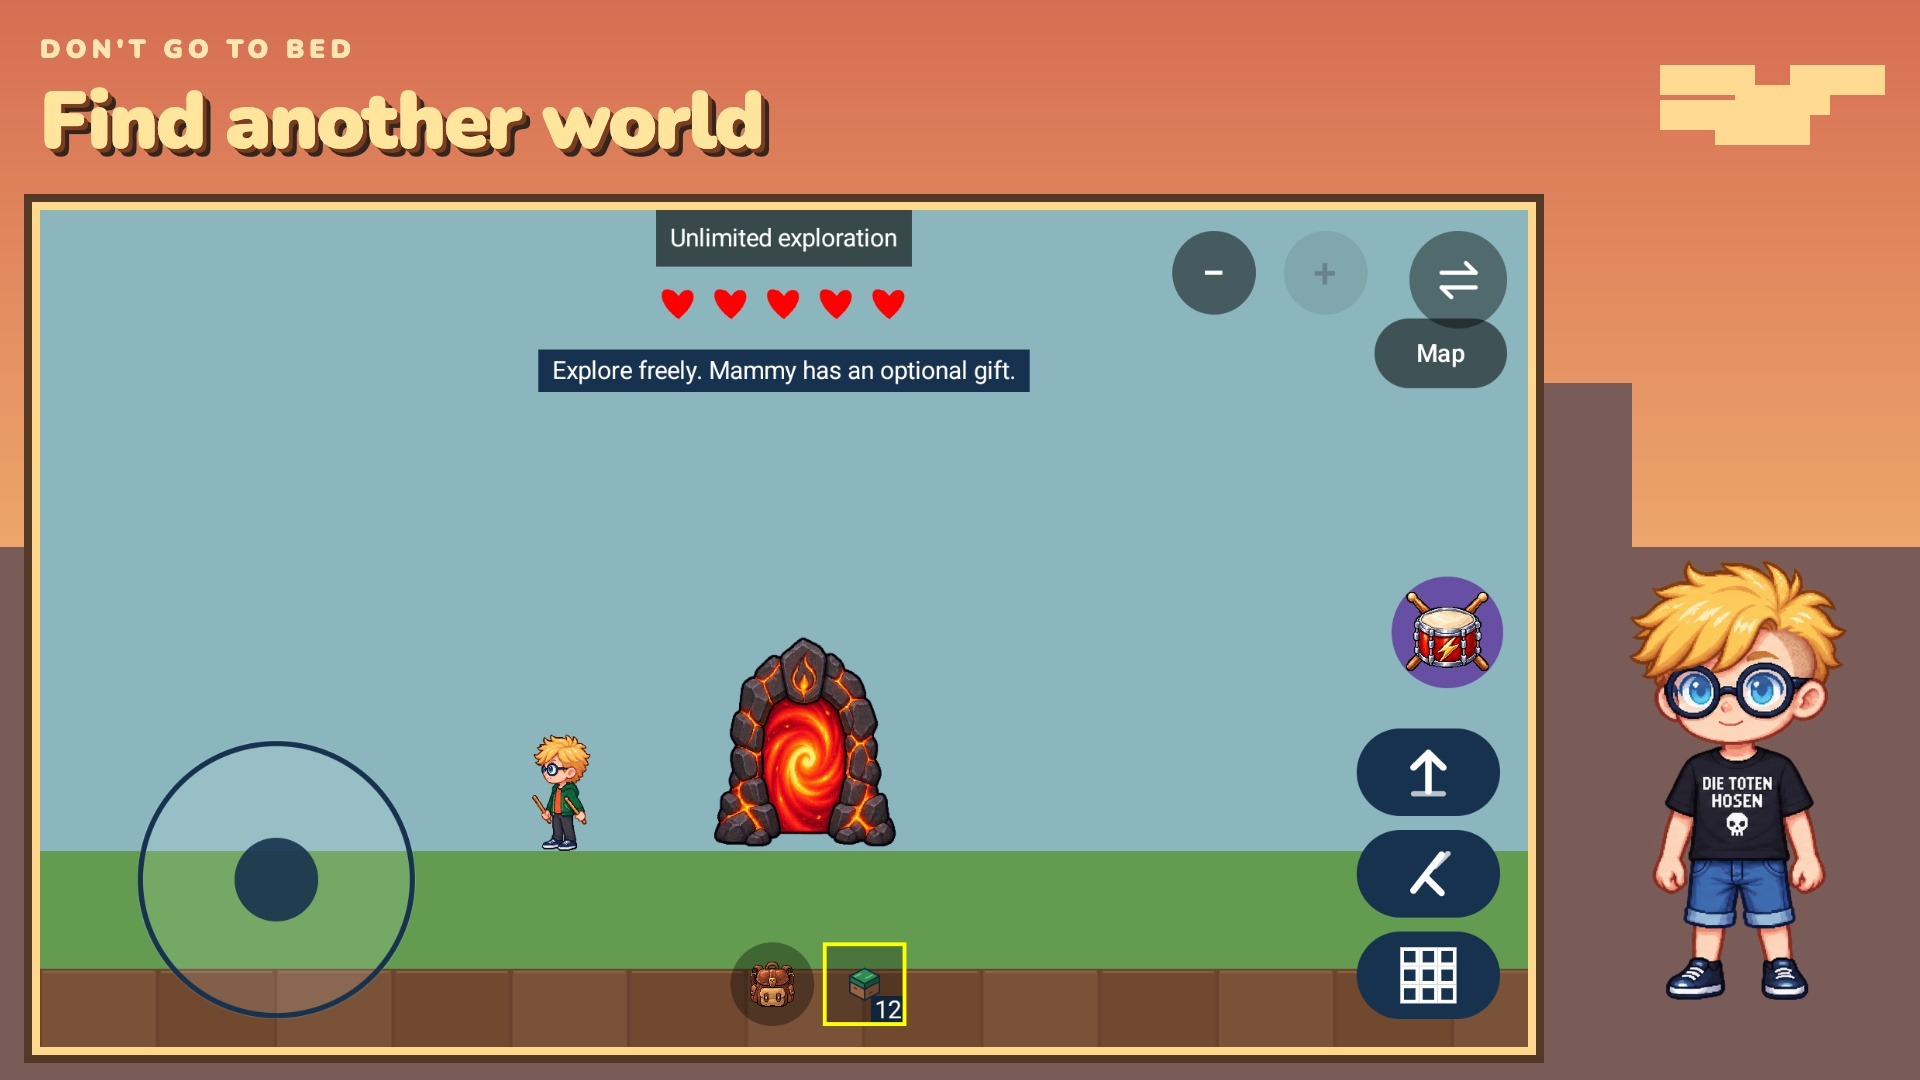
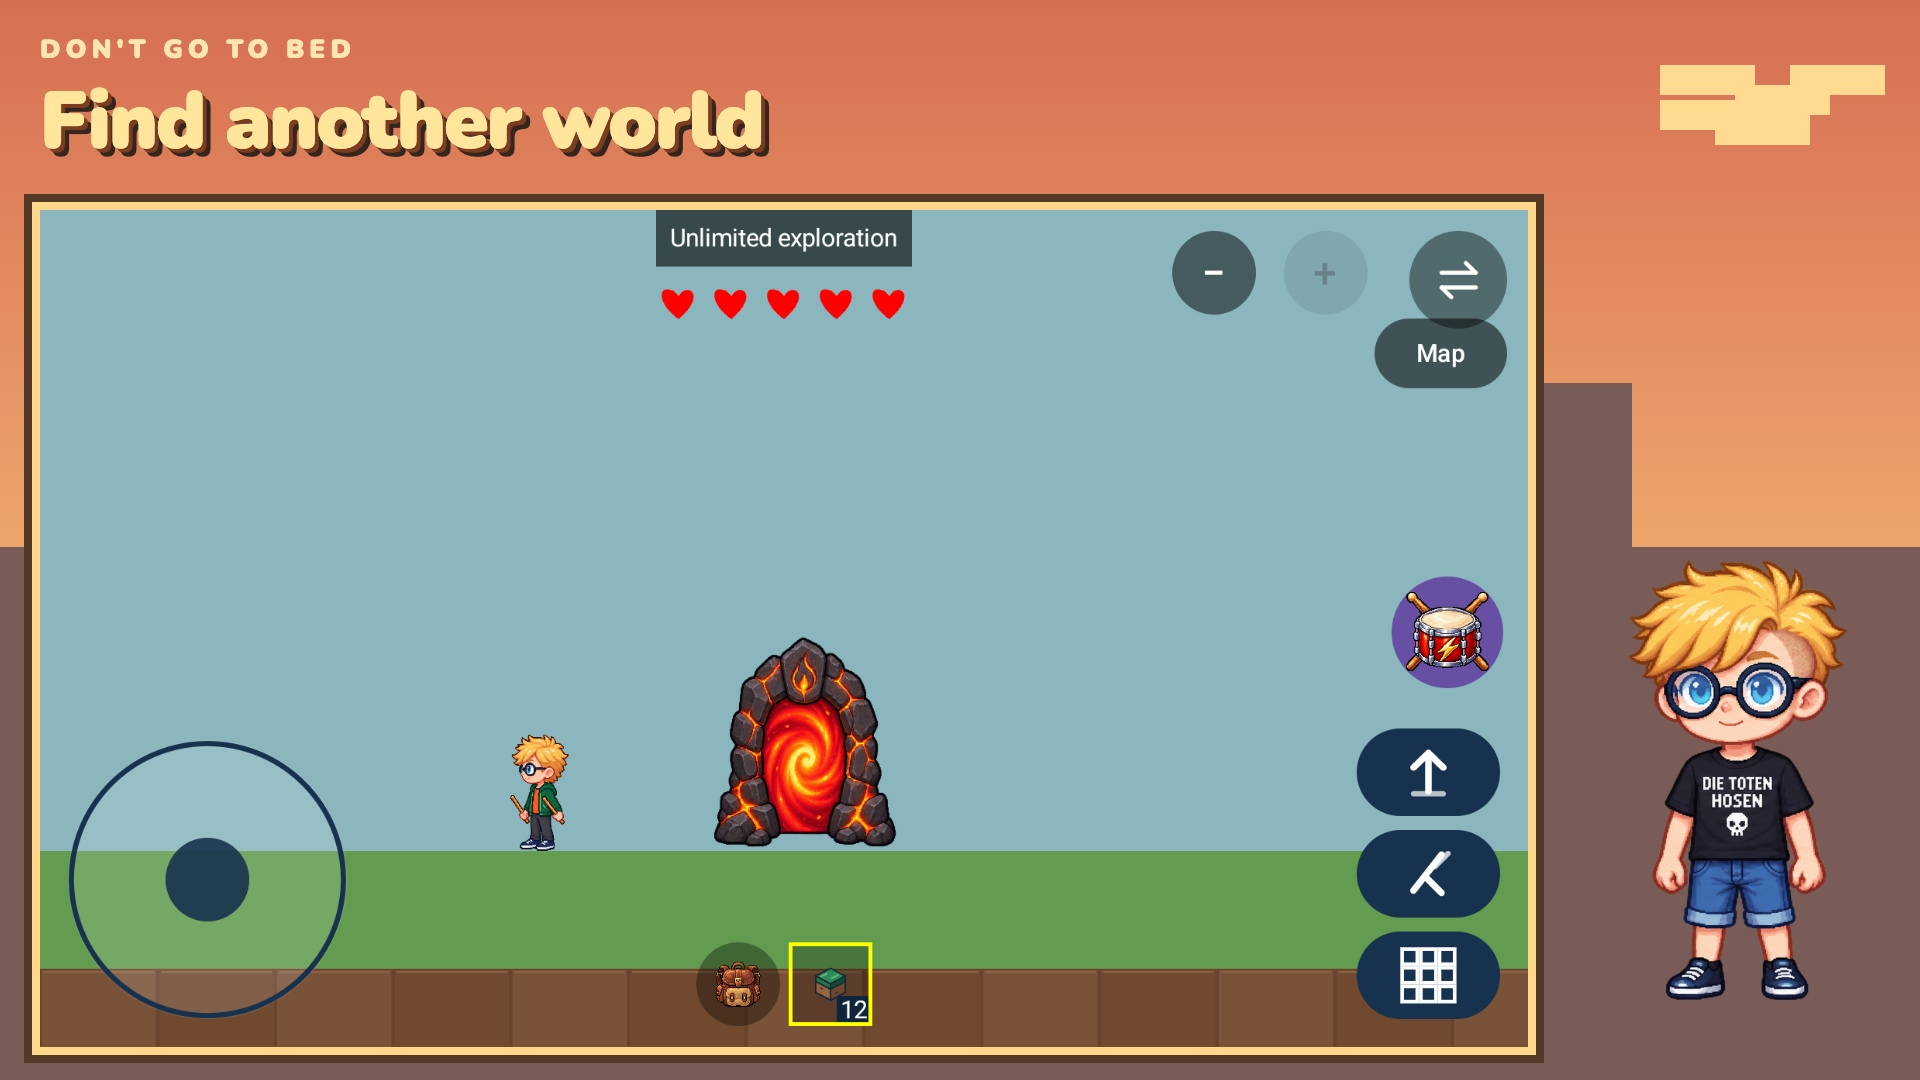
Refresh gameplay gallery with approved bow-pose screenshots

diff --git a/README.md b/README.md
@@ -39,9 +39,9 @@ The original Android project grew into this multiplatform version. The original 
 
 ## Gameplay gallery
 
-Actual Android gameplay from the latest development build (32, `1.2-ui-review`),
-framed with illustrated character artwork. These images show the upcoming UI and
-features; they do not establish that this build has shipped.
+Actual Android gameplay, framed with illustrated character artwork. Screenshots
+were refreshed on 29 October 2026, including the new bow-draw pose. They show
+features prepared for version 1.2; they do not establish that the update has shipped.
 
 ![Build your own way](docs/images/screenshots/01-house.jpg)
 
